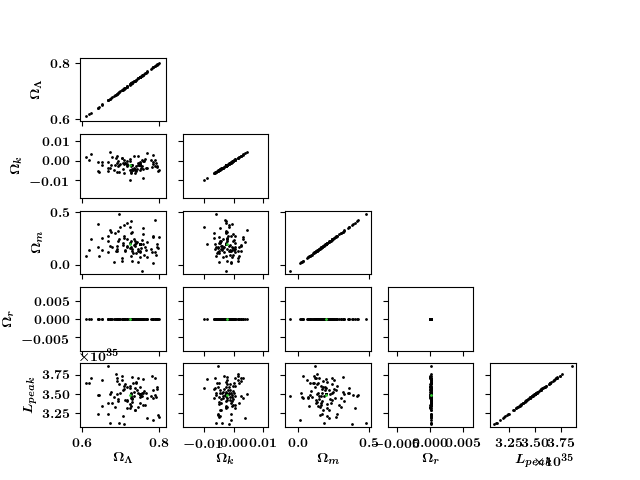
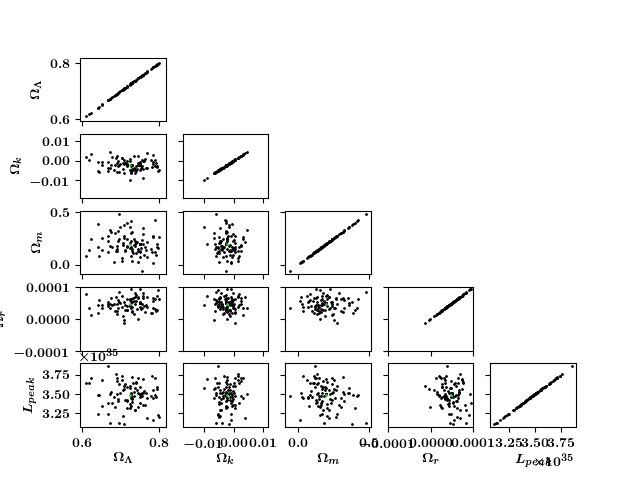
pps: fixed covariance plots

diff --git a/physics_problem_solving/program/bayesian_statistics/mcmc_covariance_plotter.py b/physics_problem_solving/program/bayesian_statistics/mcmc_covariance_plotter.py
@@ -24,6 +24,15 @@ def plotter():
     # Axes for the plots
     f, axarr = pyplot.subplots(5, 5)  
 
+    # Setting axis limits for Omega_rad
+    lims = [-0.0001,0.0001]
+    axarr[4,3].set_xlim(lims[0], lims[1])
+    axarr[3,0].set_ylim(lims[0], lims[1])
+    axarr[3,1].set_ylim(lims[0], lims[1])
+    axarr[3,2].set_ylim(lims[0], lims[1])
+    axarr[3,3].set_xlim(lims[0], lims[1])
+    axarr[3,3].set_ylim(lims[0], lims[1])
+
     #: Plotting all the data
     axarr[4,0].scatter(data[:,2], data[:,1], marker='.', s=4) # O_L and L_P
     axarr[4,1].scatter(data[:,3], data[:,1], marker='.', s=4) # O_k and L_P
@@ -122,7 +131,7 @@ def plotter():
     axarr[0,0].set_ylabel(r'$\Omega_{\Lambda}$')
     axarr[1,0].set_ylabel(r'$\Omega_{k}$')
     axarr[2,0].set_ylabel(r'$\Omega_{m}$')
-    axarr[3,0].set_ylabel(r'$\Omega_{r}$')
+    axarr[3,0].set_ylabel(r'$\Omega_{r}$') 
 
     # Fine-tune figure; hide x ticks for top plots and y ticks for right plots
     pyplot.setp([a.get_xticklabels() for a in axarr[0, :]], visible=False)
